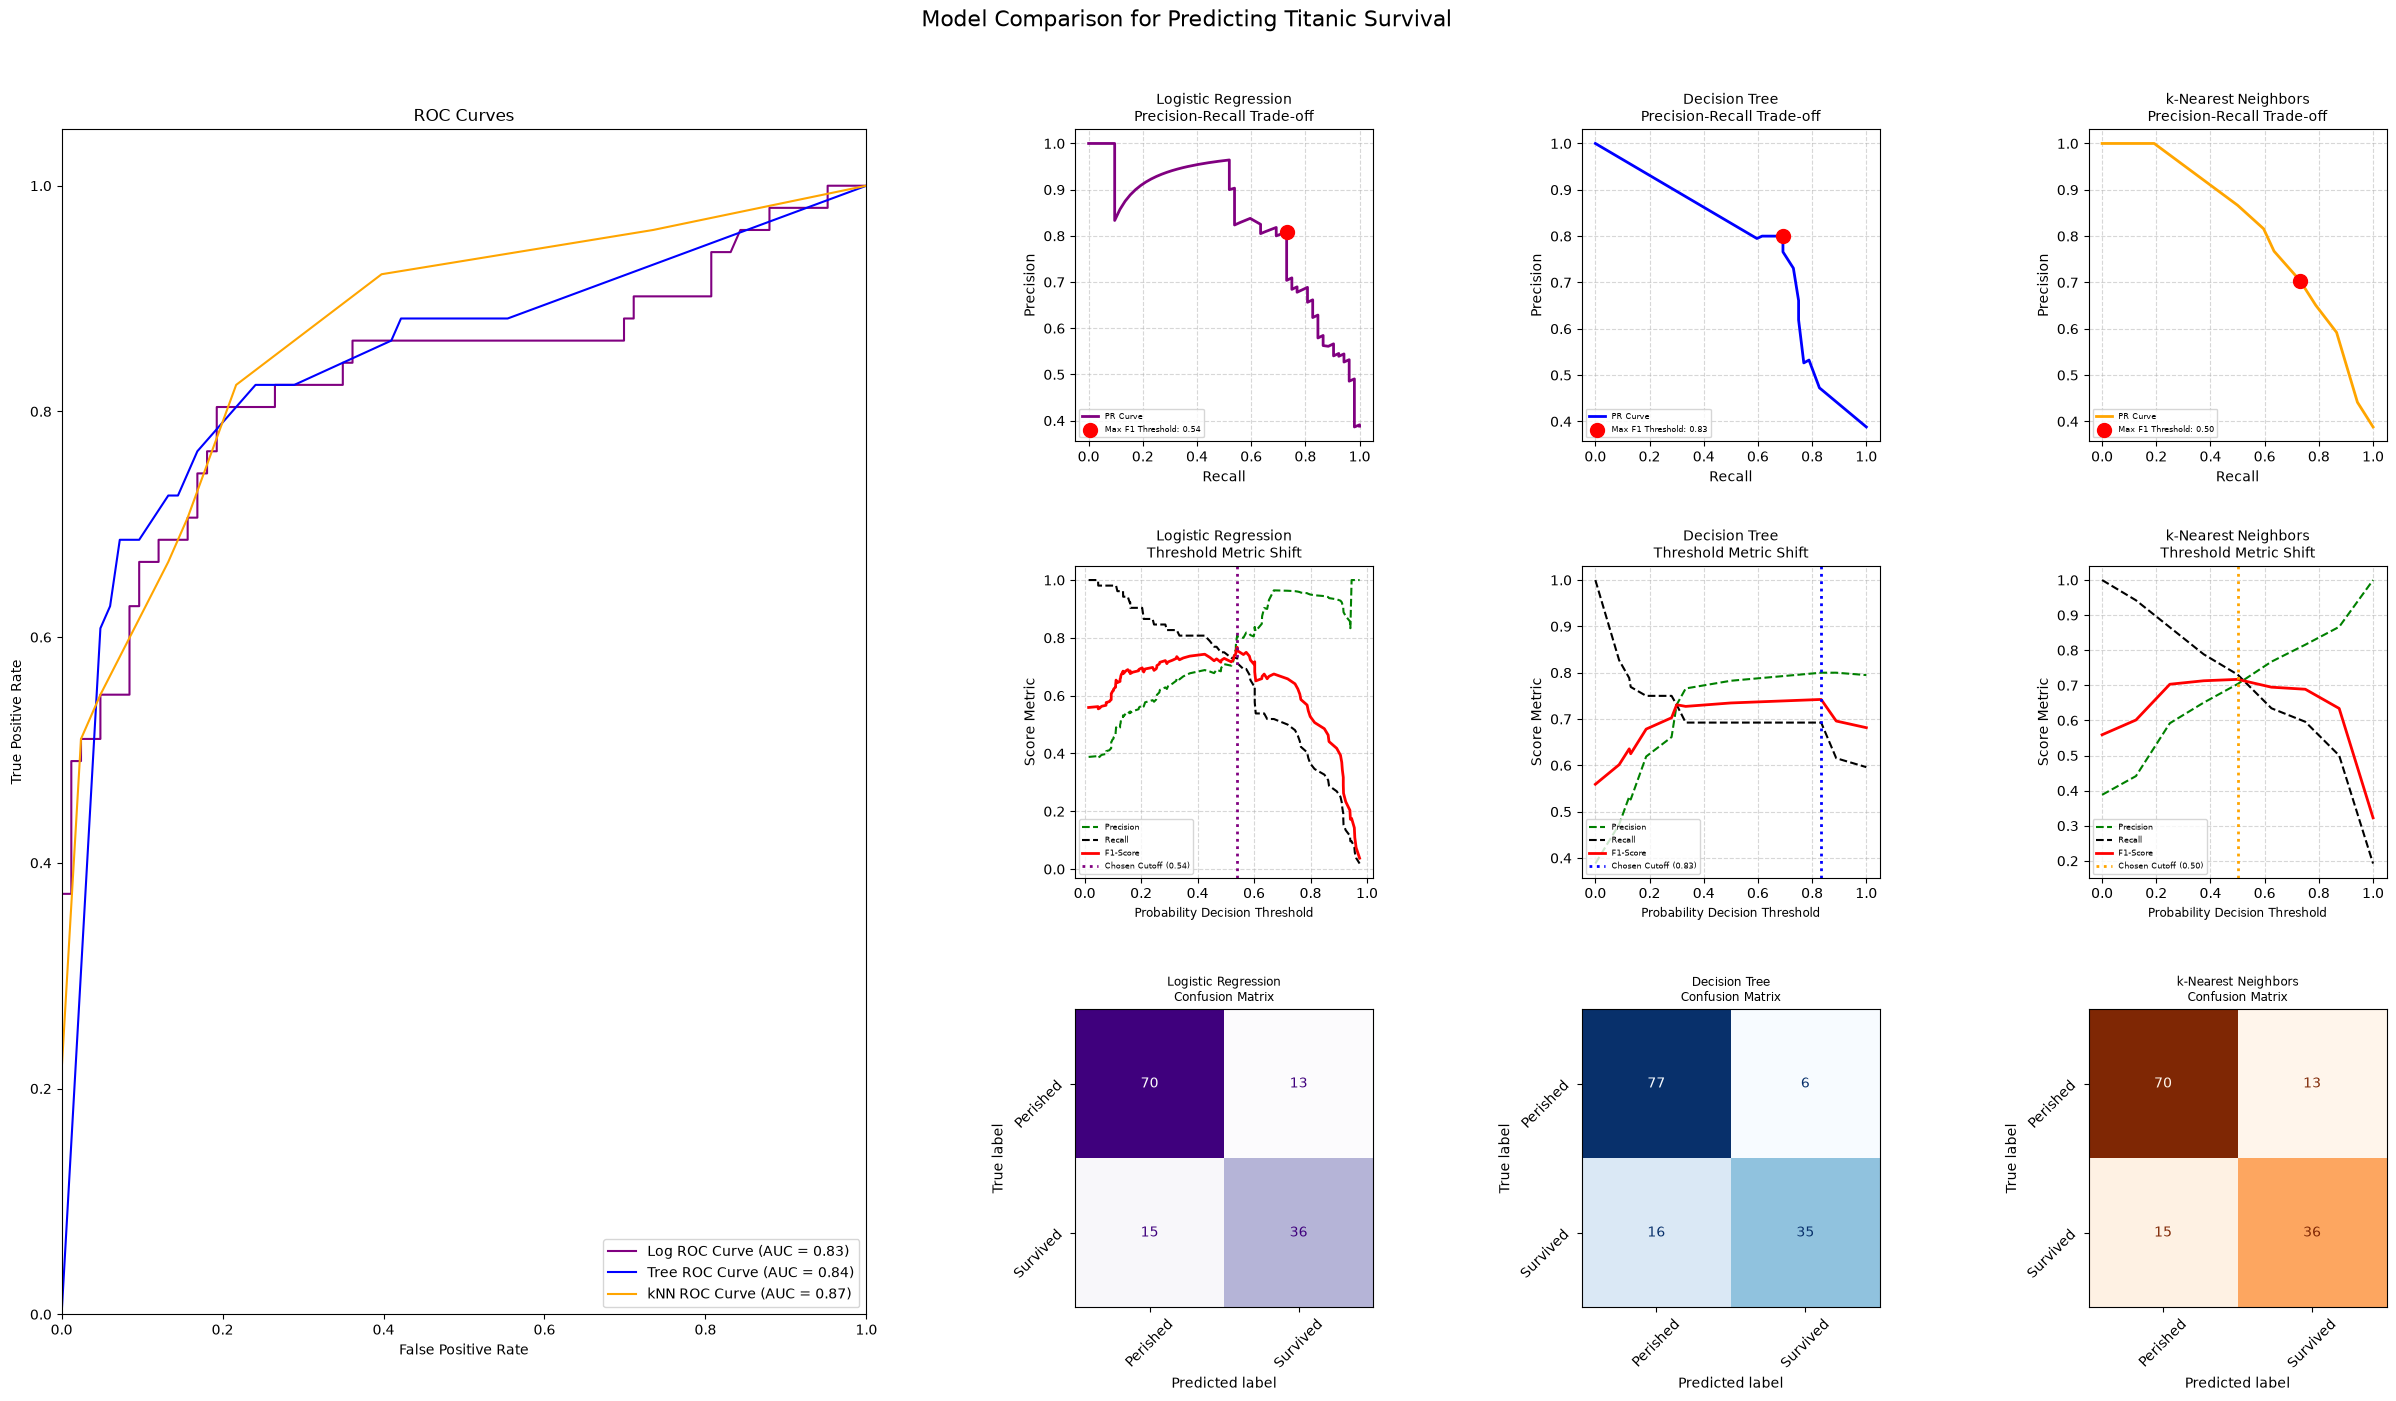
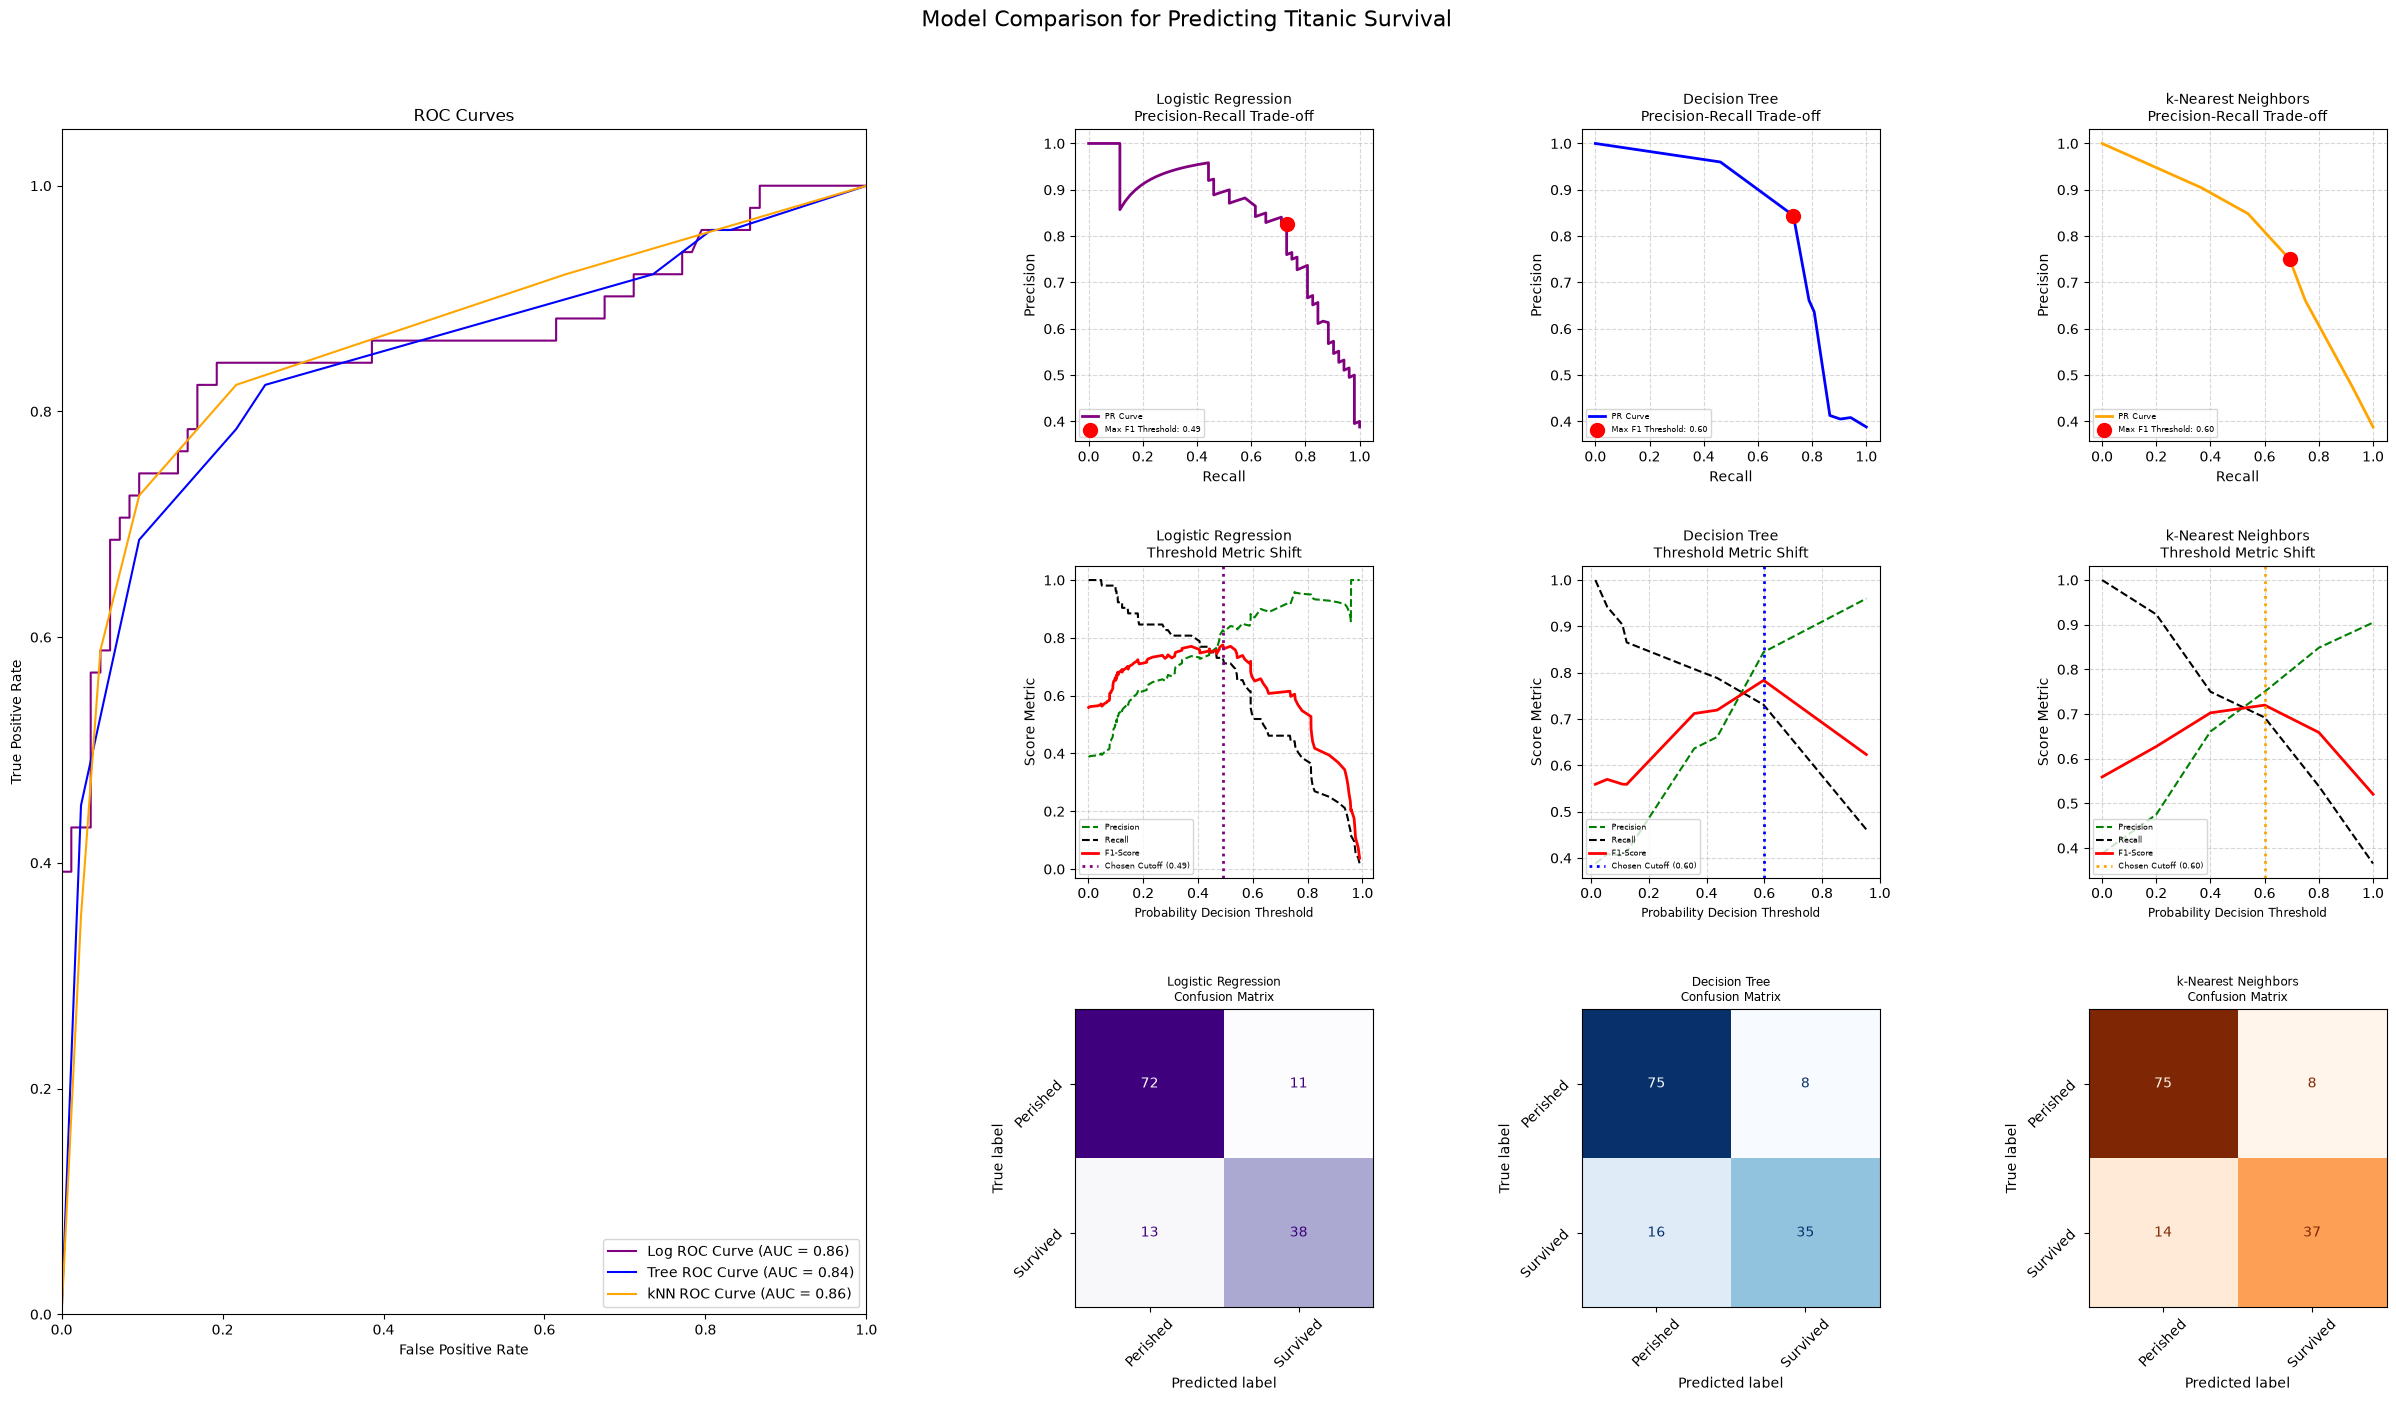
add Title feature extracted from 'Names'

diff --git a/titanic_classifier.py b/titanic_classifier.py
@@ -10,17 +10,32 @@ from sklearn.model_selection import train_test_split, GridSearchCV
 from sklearn.metrics import ConfusionMatrixDisplay, confusion_matrix, roc_curve, auc, precision_recall_curve
 
 # loading and cleaning csv
-df = pd.read_csv("Titanic-Dataset.csv")
-df = df.drop(["Name", "Ticket", "Cabin"], axis=1)
+df = pd.read_csv('Titanic-Dataset.csv')
+df = df.drop(['Ticket', 'Cabin'], axis=1)
 
-# encoding strings to numbers for training
+# Cleaning data
 df['Age'] = df['Age'].fillna(df['Age'].median())
 df['Sex'] = df['Sex'].replace('male', 0).replace('female', 1)
 df['Embarked'] = df["Embarked"].replace('C', 0).replace('Q', 1).replace('S', 2)
 df['Embarked'] = df['Embarked'].fillna(df['Embarked'].mode()[0])
 
+# title feature engineering i.e. making the 'Name' data useful
+df['Title'] = df['Name'].str.extract(r',\s*([^.]*)\.')
+df = df.drop('Name', axis=1)
+title_map = {
+    'Mr': 'Mr',
+    'Miss': 'Miss', 'Mlle': 'Miss', 'Ms': 'Miss',
+    'Mrs': 'Mrs', 'Mme': 'Mrs',
+    'Master': 'Master',
+    'Dr': 'Rare', 'Rev': 'Rare', 'Major': 'Rare', 'Col': 'Rare', 'Countess': 'Rare',
+    'Capt': 'Rare', 'Sir': 'Rare', 'Lady': 'Rare', 'Don': 'Rare', 'Jonkheer': 'Rare'
+}
+df['Title'] = df['Title'].map(title_map).fillna('Rare')
+df = pd.get_dummies(df, columns=['Title'], drop_first=True)
+
 # separating into feature and target frames
-features = ['Pclass', 'Sex', 'Age', 'SibSp', 'Parch', 'Fare', 'Embarked']
+features = ['Pclass', 'Sex', 'Age', 'SibSp', 'Parch', 'Fare', 'Embarked', 
+            'Title_Mr', 'Title_Miss', 'Title_Mrs', 'Title_Rare']
 target = 'Survived'
 X = df[features]
 y = df[target]
@@ -40,21 +55,21 @@ log_model.fit(X_train_scaled, y_train)
 
 # training decision tree model and optimizing maximum depth
 parameters = {
-    "max_depth": range(1, 26)
+    'max_depth': range(1, 26)
 }
 grid_search = GridSearchCV(DecisionTreeClassifier(random_state=2), param_grid=parameters)
 grid_tree = grid_search.fit(X_train_scaled, y_train)
-best_depth = grid_tree.best_params_["max_depth"]
+best_depth = grid_tree.best_params_['max_depth']
 tree_model = DecisionTreeClassifier(random_state=2, max_depth=best_depth)
 tree_model.fit(X_train_scaled, y_train)
 
 # training kNN model and optimizing number of neighbors
 parameters = {
-    "n_neighbors": range(1, 21)
+    'n_neighbors': range(1, 21)
 }
 grid_search = GridSearchCV(KNeighborsClassifier(), param_grid=parameters)
 grid_kNN = grid_search.fit(X_train_scaled, y_train)
-best_n_neighbors = grid_kNN.best_params_["n_neighbors"]
+best_n_neighbors = grid_kNN.best_params_['n_neighbors']
 kNN_model = KNeighborsClassifier(n_neighbors=best_n_neighbors)
 kNN_model.fit(X_train_scaled, y_train)
 

diff --git a/README.md b/README.md
@@ -31,16 +31,19 @@ and k-Nearest Neighbors — predicting passenger survival on the Titanic.
 
 | Model | AUC | Accuracy | Precision (Survived) | Recall (Survived) |
 |---|---|---|---|---|
-| Logistic Regression | 0.83 | 79% | 73% | 71% |
-| Decision Tree | 0.84 | 84% | 85% | 69% |
-| k-Nearest Neighbors | 0.87 | 79% | 73% | 71% |
+| Logistic Regression | 0.86 | 82% | 78% | 75% |
+| Decision Tree | 0.84 | 82% | 81% | 69% |
+| k-Nearest Neighbors | 0.86 | 84% | 82% | 73% |
 
 ## Takeaway
 
-kNN has the best AUC, which means it ranks survivors vs. non-survivors best across every 
-threshold. The decision tree has the best accuracy and precision at its chosen cutoff with 
-only 6 false positives. So if minimizing false alarms matters more than overall ranking 
-quality, it's the better choice. Which model "wins" depends on what you're optimizing for.
+Adding a Title feature (extracted from passenger names — Mr/Mrs/Miss/Master/Rare)
+improved all three models, most notably Logistic Regression (AUC 0.83 → 0.86).
+kNN now has the best accuracy (84%), while Logistic Regression and kNN are tied
+for the best AUC (0.86). The Decision Tree has the best precision (81%, fewest
+false positives at 8). Which model "wins" still depends on what's being
+optimized for — overall ranking quality (AUC) vs. minimizing false alarms
+(precision) vs. raw accuracy.
 
 ## Usage
 
@@ -51,6 +54,5 @@ python titanic_classifier.py
 
 ## What I'd improve next
 
-- Engineer a title feature from Name
 - Try cross-validation instead of a single validation split for threshold selection
 - Test an ensemble of the three models
